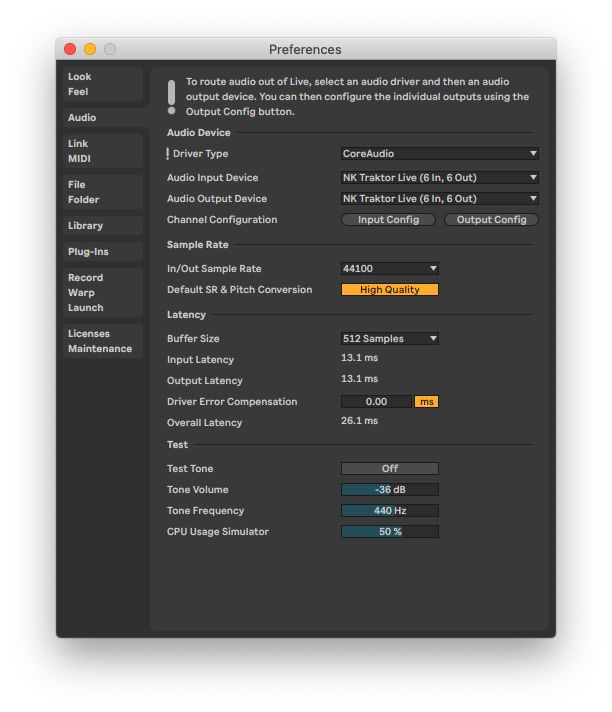
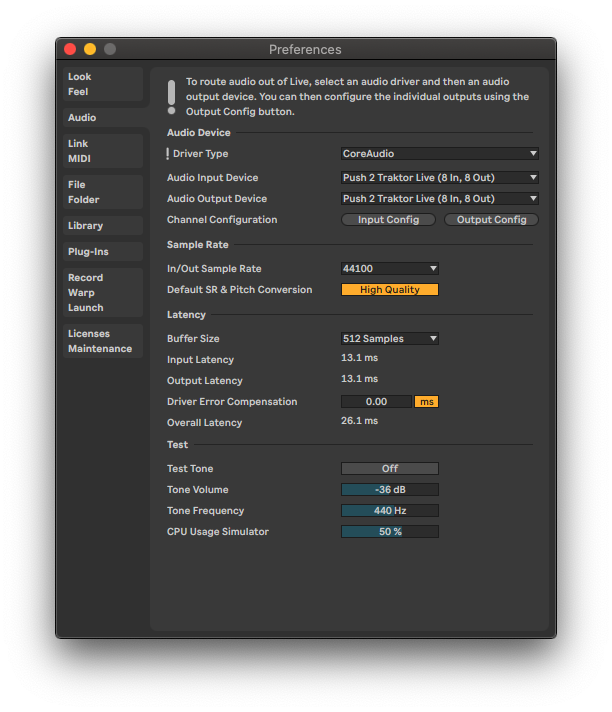
Document cueing

Changed region(s): [[0.0621, 0.0309, 0.9314, 0.9579], [0.5588, 0.2472, 0.8072, 0.309]]

diff --git a/README.md b/README.md
@@ -67,9 +67,7 @@ The Loop Recorder is problematic because it records loops slightly too long. Sam
 
 #### MacBook Pro
 
-This setup is for the internal sound card on my Macbook Pro.
-
-As my Native Instruments Z1 is in storage, the output goes directly to headphones and there is no separate output for cueing.
+This setup is for the Traktor Kontrol Z1. Mixing is only done on headphones, so the master mix goes to both Left and Right channels (for monitoring and recording with Audio Hijack) and cueing goes to the Right channel (this is not recorded).
 
 ---
 
@@ -112,7 +110,7 @@ In order to be able to choose which Traktor Pro deck to sample from, both decks 
 
 1. `ableton-live/push2-traktor-live Project/push2-traktor-live.als`
 
-Contains a 2 channel mixer and a 6 channel sampler.
+Contains a 2 channel mixer and an 8 channel sampler (Deck A x3 + Deck B x3 + Resample x1 + Chop x1).
 
 ##### Audio
 
@@ -123,14 +121,15 @@ Contains a 2 channel mixer and a 6 channel sampler.
 <img src="ableton-live/screenshots/output-config.png" alt="Screenshot of Ableton Live's Output Config window" width="500">
 
 1. Driver Type: `CoreAudio`
-2. Audio Input Device: `NK Traktor Live (6 In, 6 Out)`
-3. Audio Output Device: `NK Traktor Live (6 In, 6 Out)`
+2. Audio Input Device: `NK Traktor Live (8 In, 8 Out)`
+3. Audio Output Device: `NK Traktor Live (8 In, 8 Out)`
 4. Channel Configuration
    1. Input Config:
       * `3/4: Traktor Pro Deck A`
       * `5/6: Traktor Pro Deck B`
    2. Output Config:
       * `1/2: Live Out`
+      * `7/8: Live Cue R` (channel `8`)
 
 ##### UI (top left)
 
@@ -219,7 +218,7 @@ Part of Traktor Pro 3: <https://support.native-instruments.com/hc/en-us/articles
 
 `.tsi` templates map control surfaces and supporting software to Traktor Pro's interface API.
 
-1. `traktor-pro/clock.tsi` - for MIDI clock sync (TBC - iof not for another project)
+1. `traktor-pro/clock.tsi` - for MIDI clock sync (TBC - if not for another project)
 1. `traktor-pro/clyphx-pro-v1-0.tsi` - for sending MIDI from Live to Traktor
 1. `traktor-pro/korg-nanokey-studio-v1.tsi` - hot cues and key adjust
 1. `traktor-pro/push2-traktor-live.tsi` - Traktor Settings (Preferences > Export)
@@ -360,6 +359,7 @@ N/A
 * L/R VOLUME control DECK A/B Device 1 Vol (Macrobat)
 * L FILTER ON copies DECK A to DECK B
 * R FILTER ON copies DECK B to DECK A
+* CUE MIX controls Cue Volume
 * XFADER controls XFADER
 
 ---
